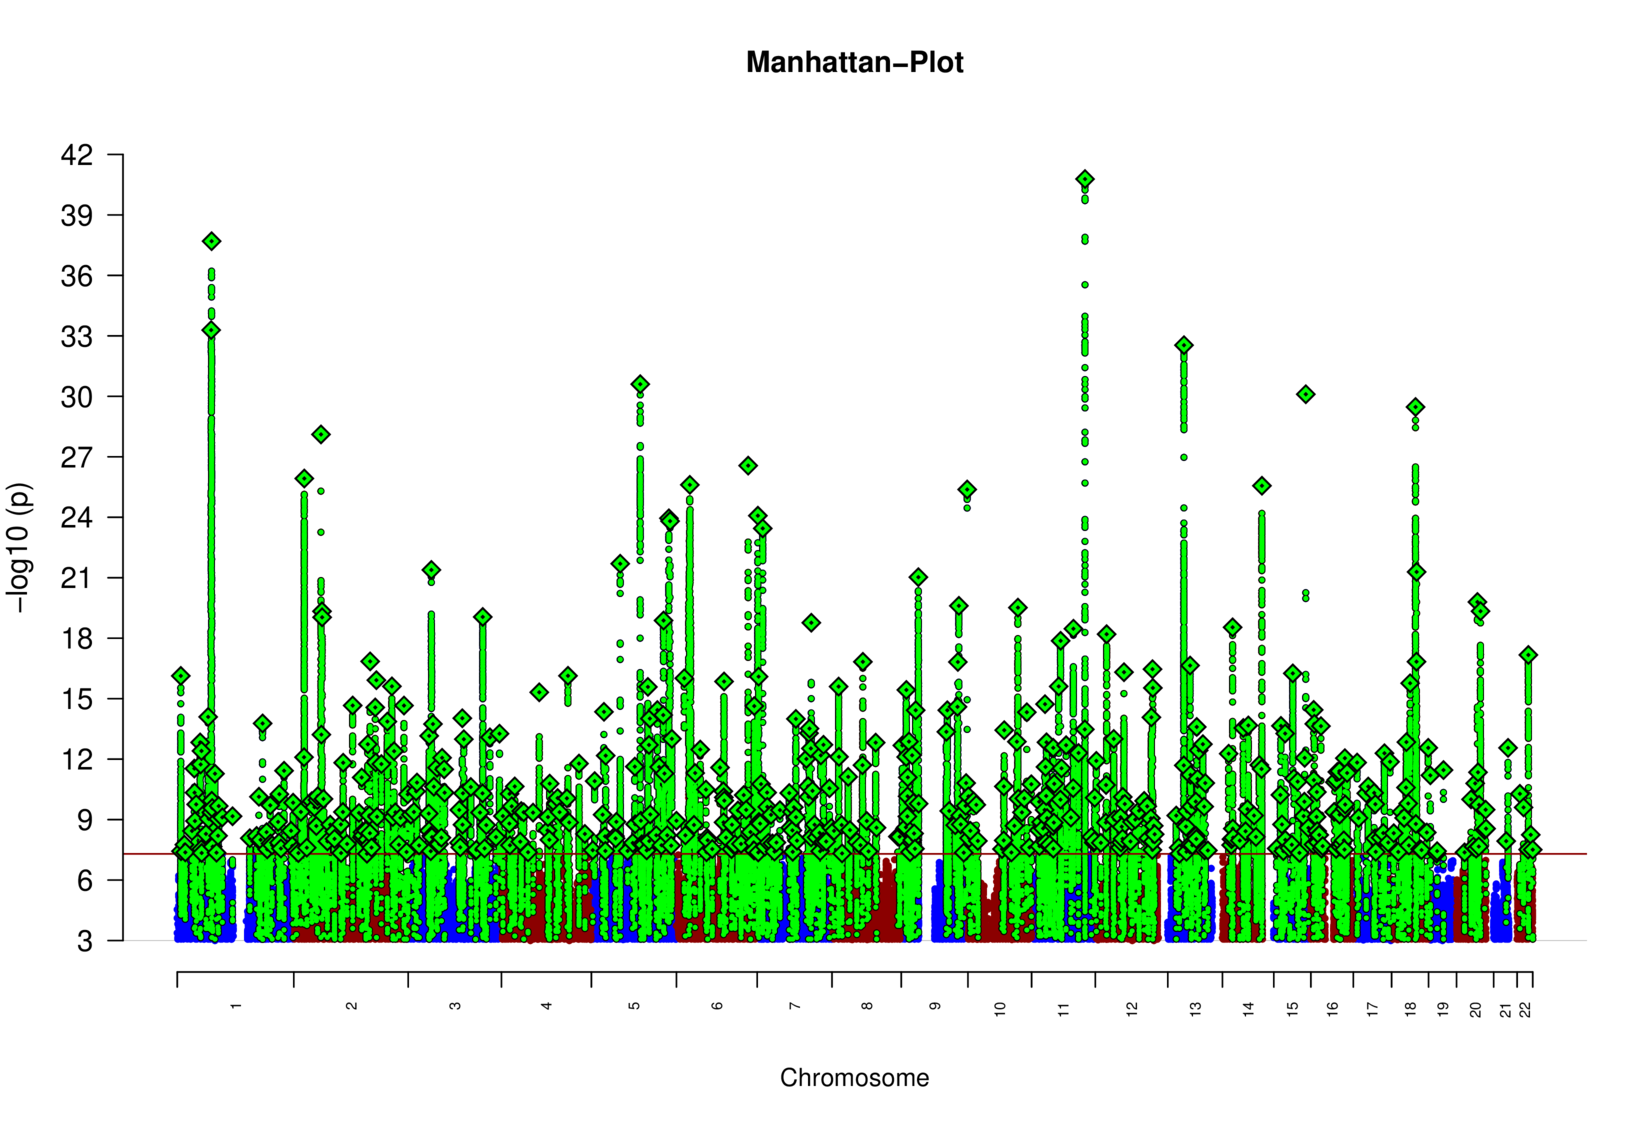
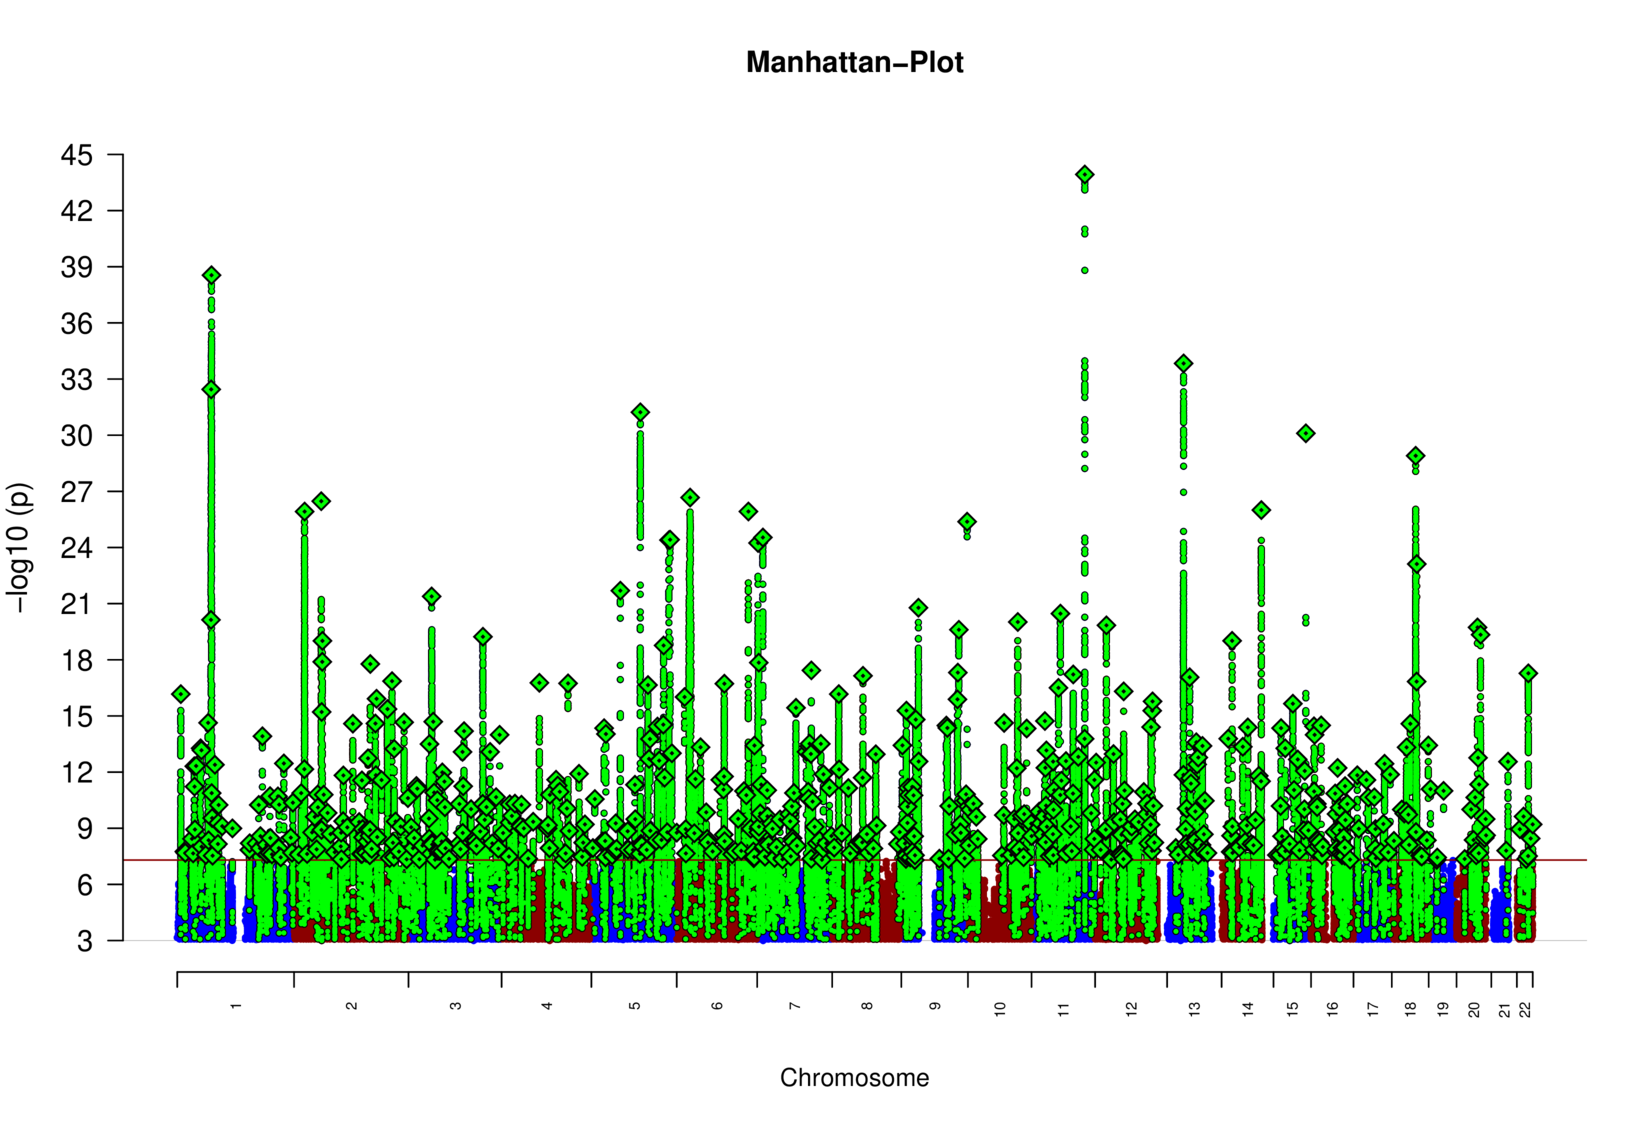
Meta: update cohorts table and manhattan plot

diff --git a/README.md b/README.md
@@ -2,7 +2,7 @@
 
 Working toward the next meta-analysis ("MDD3") by the Major Depressive Disorder Working Group of the Psychiatric Genomics Consortium. See table of included studies [here](https://github.com/psychiatric-genomics-consortium/mdd-meta/blob/master/docs/tables/cohorts.eur.txt)
 
-**Current version**: v3.49.24.03 [EUR]
+**Current version**: v3.49.24.05 [EUR]
 
 ![MDD Manhattan plot](docs/figures/manhattan.nog2.eur.png)
 
